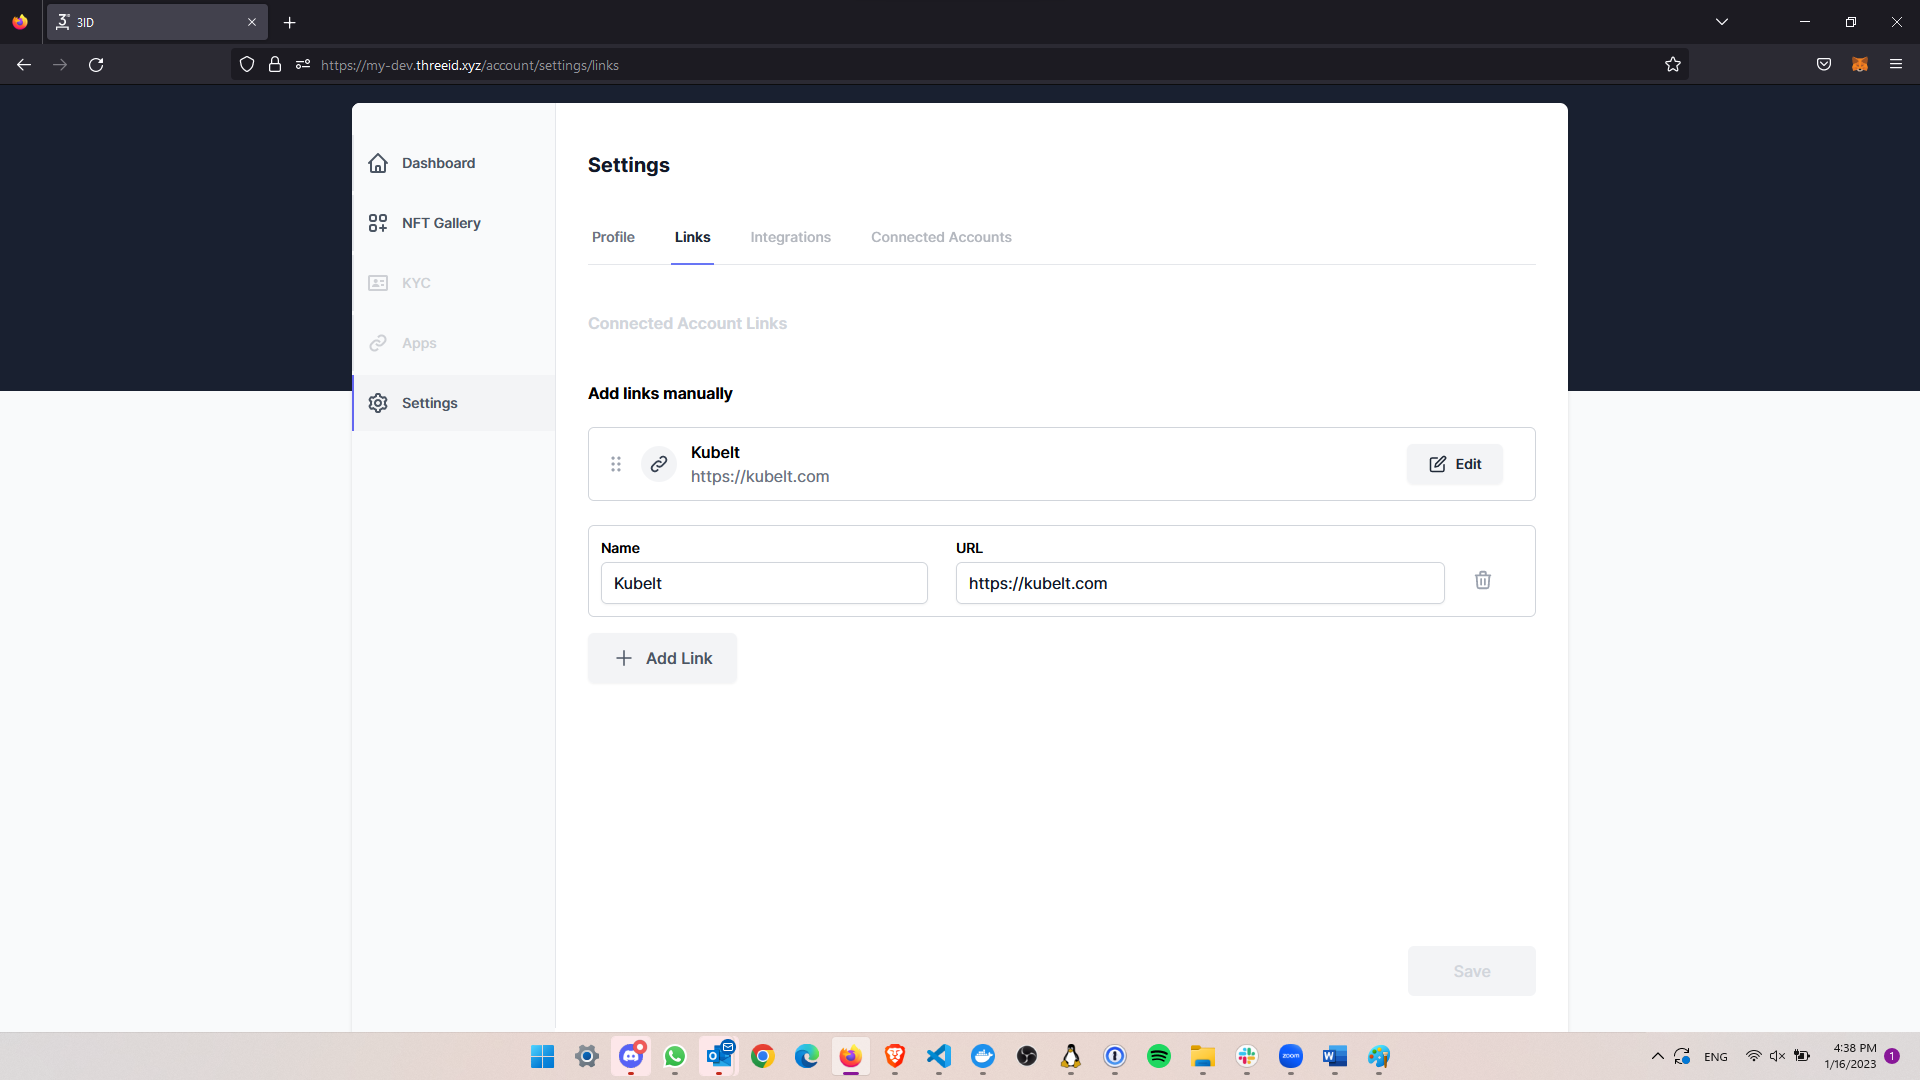
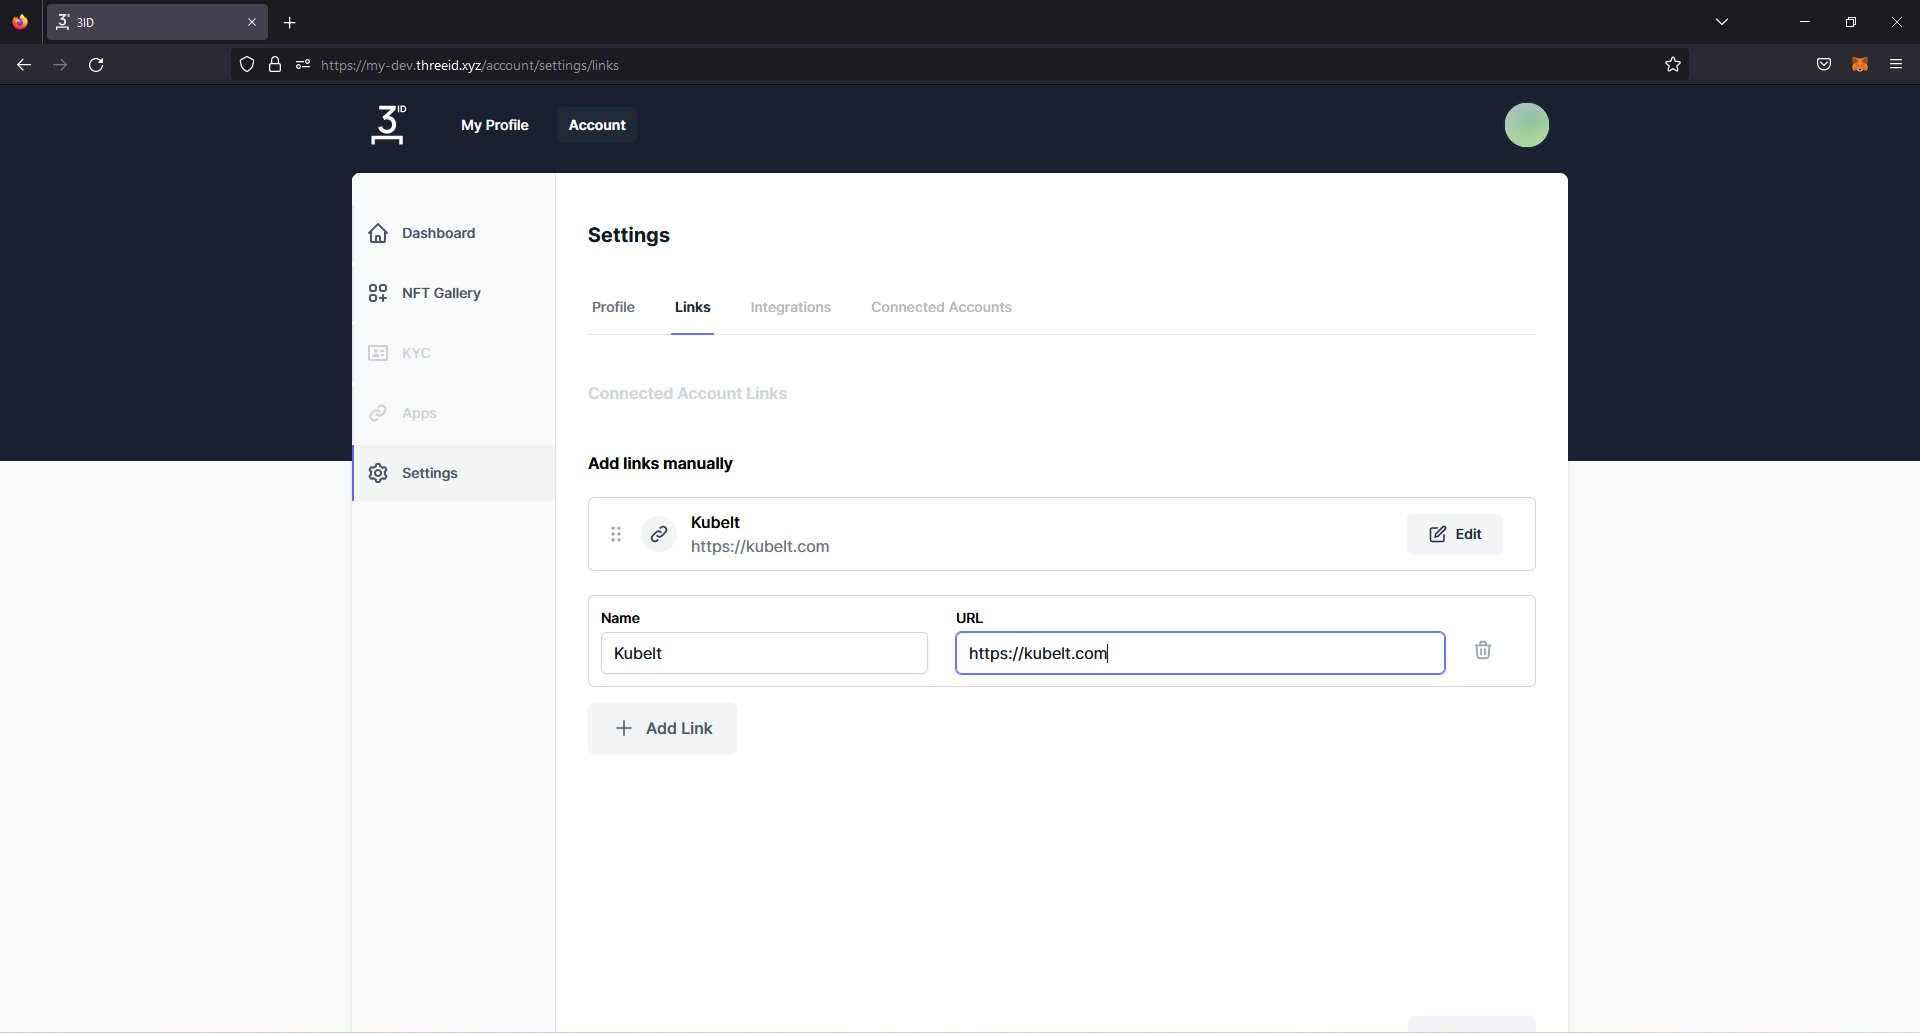
wip

diff --git a/docs/3id/guides/profile-setup.md b/docs/3id/guides/profile-setup.md
@@ -23,10 +23,29 @@ In the top-left of the screen select **My Profile**. On the profile screen you c
 * View your **NFT collections**, and
 * **Edit your profile.**
 
+If you share the link to this page with other people they will be able to view the information you've entered.
+
 ![The user profile page.](../img/profile-walkthrough/profile-ss.png)
 
 ## Select "Edit Profile"
 
-In the top-right of the profile screen select **Edit Profile**. This will take you to the account settings page.
+In the top-right of the profile screen select **Edit Profile**. This will take you to the account settings page. Here you can:
+
+* Change your **NFT Avatar** or upload a custom image.
+* Enter a **Display Name**, **Job**, **Location**, **website**, and **bio**.
+
+This information is shared with people through the link to your profile and with permissioned applications through the [Profile API](../profile/reference.md).
 
 ![The account settings page.](../img/profile-walkthrough/account-settings-profile-ss.png)
+
+## Select "Links"
+
+Let's add a link to our public profile page. In the tabs at the top of the page, select "Links".
+
+![The link settings page.](../img/profile-walkthrough/account-settings-links-ss.png)
+
+## Add a Link
+
+Click **+ Add Link**, enter the information for a link, and hit _enter_ or select **Save**.
+
+![Progress on the link settings page.](../img/profile-walkthrough/account-settings-links-done-ss.png)
